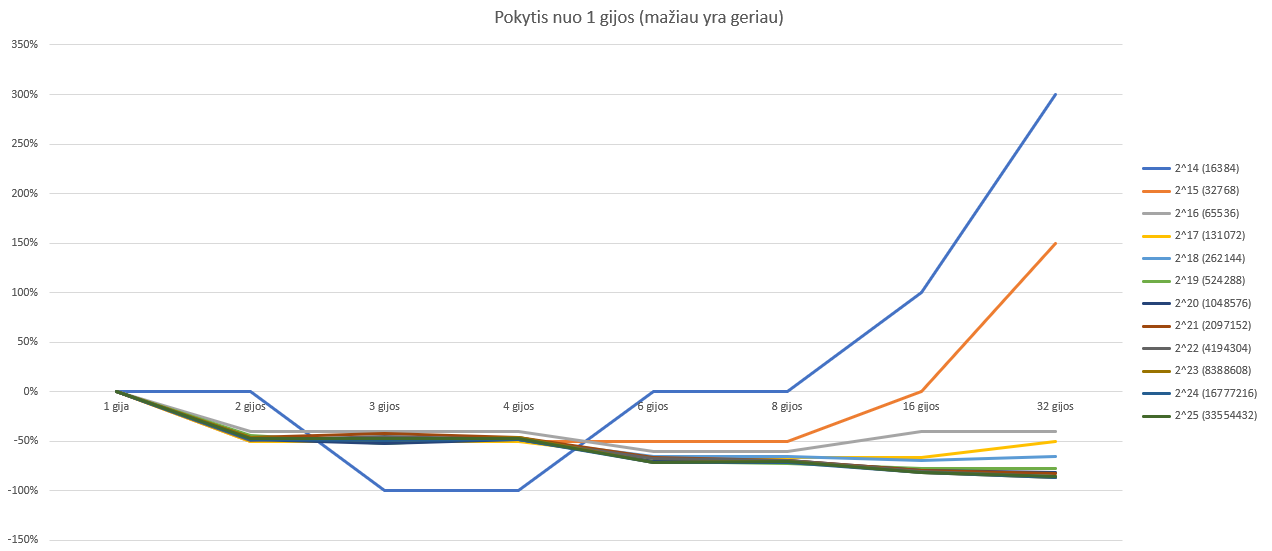
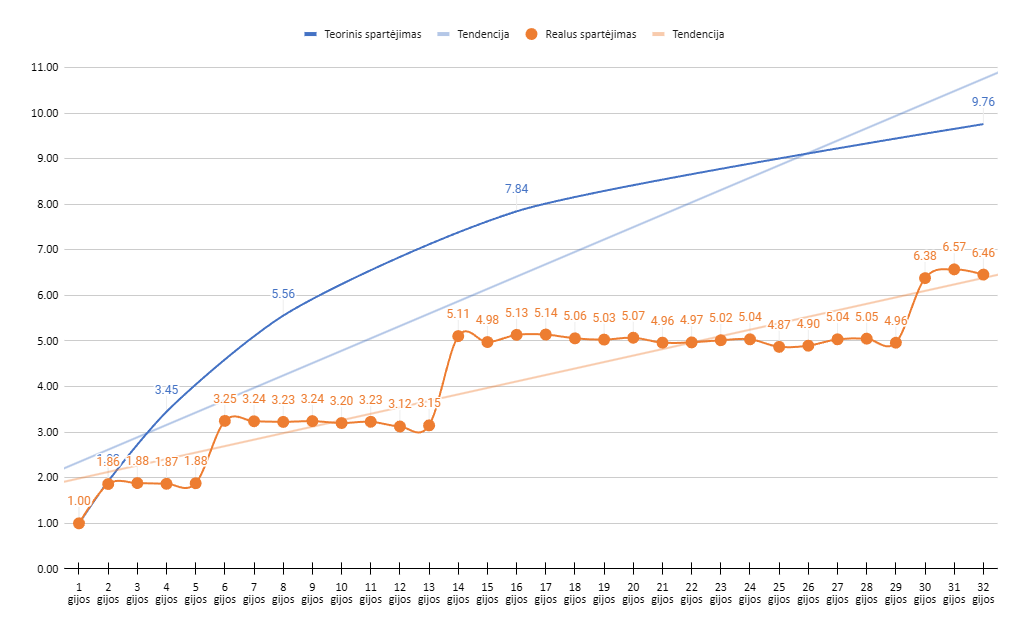
lab3 testing data

diff --git a/src/lab3/v3/ParallelMergeSortTopDown.java b/src/lab3/v3/ParallelMergeSortTopDown.java
@@ -45,8 +45,9 @@ public class ParallelMergeSortTopDown {
         debug = args[2].equalsIgnoreCase("debug");
 
         int avg = 0;
-        int avgIterations = 100;
-        int[] threadsArray = new int[] {32,16,8,6,4,3,2,1};//number of threads to test with
+        int avgIterations = 25;
+        //int[] threadsArray = new int[] {32,31,30,29,28,27,26,25,24,23,22,21,20,19,18,17,16,15,14,13,12,11,10,9,8,7,6,5,4,3,2,1};//number of threads to test with
+        int[] threadsArray = new int[] {12,11,10,9,8,7,6,5,4,3,2,1};//number of threads to test with
         for (int j = 0; j < threadsArray.length; j++) {
             nThreads = threadsArray[j];
             avg = 0;
@@ -84,7 +85,7 @@ public class ParallelMergeSortTopDown {
                 avg += (t1 - t0);
             }
             if (!debug)
-                System.out.println("\navg laikas: " + (avg / avgIterations) + " ms (" + nThreads + " thread/s)");
+                System.out.println("\navg laikas ("+avgIterations+" ciklų): " + (avg / avgIterations) + " ms (" + nThreads + " thread/s)");
         }
     }
 

diff --git a/src/lab3/v3/README.md b/src/lab3/v3/README.md
@@ -44,39 +44,27 @@ Testavimas atliktas 100 kartų išvedant vidurkius.
 Tarp 1 ir 2 gijų skirtumas ženklus.  
 Kaip matome tarp 2 ir 4 gijų toks pat greitis.
 
-![Chart](./results/chart1.png "Chart")
-
 ### Analizė
 
-## Procentinis pagreitėjimas nuo 1 gijos (visi duomenys)
+## Pagreitėjimas
 
-| Masyvo dydis      | 2 gijos % | 3 gijos % | 4 gijos % | 6 gijos % | 8 gijos % | 16 gijų % | 32 gijos % |
-|:------------------|----------:|----------:|----------:|----------:|----------:|----------:|-----------:|
-| 2^14 (16384)      |         0 |    -100 % |    -100 % |       0 % |       0 % |     100 % |      300 % |
-| 2^15 (32768)      |     -50 % |     -50 % |     -50 % |     -50 % |     -50 % |       0 % |      150 % |
-| 2^16 (65536)      |     -40 % |     -40 % |     -40 % |     -60 % |     -60 % |     -40 % |      -40 % |
-| 2^17 (131072)     |     -50 % |     -50 % |     -50 % |     -67 % |     -67 % |     -67 % |      -50 % |
-| 2^18 (262144)     |     -48 % |     -48 % |     -48 % |     -65 % |     -65 % |     -70 % |      -65 % |
-| 2^19 (524288)     |     -44 % |     -52 % |     -46 % |     -70 % |     -72 % |     -78 % |      -78 % |
-| 2^20 (1048576)    |     -48 % |     -53 % |     -48 % |     -71 % |     -70 % |     -79 % |      -81 % |
-| 2^21 (2097152)    |     -46 % |     -42 % |     -46 % |     -67 % |     -69 % |     -80 % |      -83 % |
-| 2^22 (4194304)    |     -49 % |     -46 % |     -49 % |     -68 % |     -70 % |     -81 % |      -86 % |
-| 2^23 (8388608)    |     -47 % |     -49 % |     -46 % |     -71 % |     -70 % |     -81 % |      -86 % |
-| 2^24 (16777216)   |     -48 % |     -50 % |     -49 % |     -71 % |     -71 % |     -82 % |      -86 % |
-| 2^25 (33554432)   |     -47 % |     -48 % |     -47 % |     -71 % |     -70 % |     -82 % |      -86 % |
+Analizuojant 2^25 dydžio duomenų masyvą, teorinius spartėjimas skaičiuotas pagal formulę `Sreal(p)=n*LOG(n,2)`.  
+`t(2)=n/2*LOG(n/2,2)+n`, `spartėjimas==Sreal(p)/t(2)`  
+`t(4)=n/4*LOG(n/4,2)+n/2+n`, `spartėjimas=Sreal(p)/t(4)`  
+`t(16)=n/8*LOG(n/8,2)+n/4+n/2+n`, `spartėjimas=Sreal(p)/t(8)`  
+`t(16)=n/16*LOG(n/16,2)+n/8+n/4+n/2+n`, `spartėjimas=Sreal(p)/t(16)`  
+`t(32)=n/32*LOG(n/32,2)+n/16+n/8+n/4+n/2+n`, `spartėjimas=Sreal(p)/t(32)`
 
-Matome, kad su mažais kiekiais (2^14–2^15) - didėjant gijų skaičiui - procentiškai letėja greitis.
+| Masyvo dydis         | 1 gija | 2 gijos | 4 gijos | 8 gijos | 16 gijų | 32 gijos |
+|:---------------------|-------:|--------:|--------:|--------:|--------:|---------:|
+| Realus spartėjimas   |   1.00 |    1.90 |    1.87 |    3.23 |    5.13 |     6.46 |
+| Teorinis spartėjimas |   1.00 |    1.92 |    3.45 |    5.56 |    7.84 |     9.76 |
 
+Matome, kad tik nuo 8 branduolių pagreitėja. 
+
+![Chart](./results/chart1.png "Chart")
+
+
+
+Atlikus testavimą su kiekviena gija nuo 1 iki 32 - gaunam kurkas išreikšmingesnį laiptuotą grafiką:
 ![Chart](./results/chart2.png "Chart")
-
-## Procentinis pagreitėjimas nuo 1 gijos (2^16 - 2^25)
-
-Išėmus duomenis, kurie letėja (2^14–2^15) ir žiūrint tik 2^16–2^25 duomenis - matome, kad daugėjant duomenim - gijų darbas reikšmingai neletėja (nekyla į viršų).
-
-![Chart](./results/chart3.png "Chart")
-
-# Realus gretisi vs idealus
-
-Kai matome - didėjant gijų skaičiui - ne tiek daug proporcingai greitėja, kaikuriais atvejais (2-4 gijom) net negreitėja.
-
-![Chart](./results/chart4.png "Chart")
